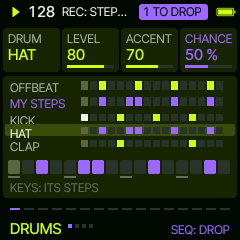
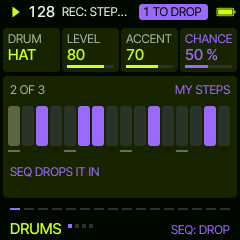
DRUMS: one drum at a time, large; OCT- or OCT+ lit while the keys' octave is moved
Claude-Session: https://claude.ai/code/session_01VgesZgNNDFiPGvKyDTZVUK

Changed region(s): [[0.0, 0.3208, 0.9917, 0.8167]]

diff --git a/firmware/src/sa_ui.c b/firmware/src/sa_ui.c
@@ -951,46 +951,39 @@ static void sv_panel_synth_home(sa_ui *u)
     sv_label(10, 88, "FX: SOUND AND MORE   REC: STEPS", T_DIM);
 }
 
-/* DRUMS: the drums, a row each (the one KNOB 1 picked lit); the one picked, large: its 16 steps */
+/* DRUMS: the drum KNOB 1 picked, large: which of how many, its pattern, its 16 steps (what plays, or what SEQ drops) */
 static void sv_panel_drums(sa_ui *u)
 {
     sa_groove *g = u->g;
-    int rows[SA_LAYERS], n = sv_drum_rows(u, rows), total = sv_drow_count(u), now = sv_now(g);
-    int first = u->drow > 2 ? u->drow - 2 : 0;      /* three rows in view, the one picked among them */
-    for (int i = first; i < total && i < first + 3; ++i) {
-        int32_t y = 36 + (i - first) * 13;
-        bool sel = i == u->drow;
-        uint16_t bg = sel ? ux_mix(T_SURF, T_THEME, 18) : T_SURF;
-        if (sel) cv_rrect(5, y - 1, 230, 12, 2, bg, T_SURF);
-        if (i >= n) {
-            cv_text_on(10, y + 1, &AF_S, "+ ADD A DRUM", sel ? T_TEXT : T_DIM, bg);
-            continue;
-        }
-        int l = rows[i];
-        const sa_code *e = &g->ed[l];
-        bool pend = sa_layer_pending(g, l), mute = g->s.live[l].mute, gone = e->type == SA_T_NONE;
-        bool off = e->pat == SA_PAT_OFF && !e->own;
-        cv_free_text(10, y + 1, &AF_S, sv_layer_name(u, l), mute || gone || off ? T_DIM : sel ? T_TEXT : T_MID, bg, 66);
-        sv_strip(80, y + 2, 152, 7, gone || off ? 0 : sv_ed_bits(u, l), now, pend ? T_ACCENT : T_THEME, mute || gone);
-        if (mute) cv_rect(80, y + 5, 152, 2, T_ACCENT);
-    }
-    int l = u->layer;
+    int rows[SA_LAYERS], n = sv_drum_rows(u, rows), now = sv_now(g), l = u->layer;
+    char t[24], a[8];
     if (l < 0) {
-        cv_text_on(10, 96, &AF_S, "ALGORITHM: WHICH DRUM", T_MID, T_SURF);
+        cv_text_on(10, 14, &AF_M, "+ ADD A DRUM", T_THEME, T_SURF);
+        sv_label(10, 50, "ALGORITHM: WHICH DRUM", T_MID);
+        sv_label(10, 66, "SEQ DROPS IT IN", T_DIM);
         return;
     }
     const sa_code *e = &g->ed[l];
-    bool pend = sa_layer_pending(g, l);
-    uint16_t bits = e->type == SA_T_NONE ? 0 : sv_ed_bits(u, l);
+    bool pend = sa_layer_pending(g, l), mute = g->s.live[l].mute;
+    sv_fmt_int(t, u->drow + 1);
+    sv_cat(t, " OF ", sizeof t);
+    sv_fmt_int(a, n);
+    sv_cat(t, a, sizeof t);
+    sv_label(10, 6, t, T_MID);
+    if (e->type == SA_T_NONE) sv_cpy(t, "REMOVED", sizeof t);
+    else sa_pat_label(e, t, sizeof t);
+    cv_text_r(230, 6, &AF_S, mute ? "MUTED" : t, mute || pend ? T_ACCENT : T_THEME, T_SURF);
+    uint16_t bits = e->type == SA_T_NONE || (e->pat == SA_PAT_OFF && !e->own) ? 0 : sv_ed_bits(u, l);
     for (int k = 0; k < 16; ++k) {
         int32_t x = 8 + k * 14;
         bool on = (bits >> k) & 1u;
-        uint16_t c = on ? (pend ? T_ACCENT : T_THEME) : sv_well();
+        uint16_t c = on ? (mute ? T_DIM : pend ? T_ACCENT : T_THEME) : sv_well();
         if (k == now) c = on ? T_TEXT : ux_mix(T_SURF, T_TEXT, 30);
-        cv_rrect(x, 84, 12, 14, 2, c, T_SURF);
-        if (k % 4 == 0) cv_rect(x, 100, 12, 2, T_DIM);
+        cv_rrect(x, 30, 12, 40, 3, c, T_SURF);
+        if (k % 4 == 0) cv_rect(x, 74, 12, 2, T_DIM);
     }
-    sv_label(10, 104, u->rec ? "KEYS: ITS STEPS" : "REC: ITS STEPS ON THE KEYS", T_DIM);
+    sv_label(10, 88, pend ? "SEQ DROPS IT IN" : u->rec ? "KEYS: ITS STEPS" : "REC: ITS STEPS ON THE KEYS",
+             pend ? T_ACCENT : T_DIM);
 }
 
 static void sv_panel_layer(sa_ui *u)
@@ -1002,7 +995,6 @@ static void sv_panel_layer(sa_ui *u)
     }
     int pg = sv_page_now(u);
     if (u->view == SV_V_DRUMS && pg == SVP_HOME) {
-        sv_layer_top(u, u->layer);
         sv_panel_drums(u);
         return;
     }

diff --git a/firmware/src/sa_fw.c b/firmware/src/sa_fw.c
@@ -490,6 +490,8 @@ static void sa_leds(void)
     bool pend = sa_pending(&sa_g) > 0;
     led_put(nl, panel.btn[B_SEQ], pend && (!sa_g.drop_armed || (fm1_ms / 125u) % 2u));   /* SEQ: what waits */
     led_put(nl, panel.btn[B_REC], sa_u.rec || (sa_u.page == SV_PG_SETS && (fm1_ms / 500u) % 2u));
+    led_put(nl, panel.btn[B_OCTDN], sa_u.oct < 0);                  /* the keys' octave moved down, or up */
+    led_put(nl, panel.btn[B_OCTUP], sa_u.oct > 0);
     uint32_t efull = 0, edim = 0;
     bool editing = sv_key_leds(&sa_u, &efull, &edim);   /* DRUMS, STEPS: the keys show what they edit */
     for (k = 0; k < NB; k++)

diff --git a/docs/MANUAL.md b/docs/MANUAL.md
@@ -22,7 +22,7 @@ into one of eight sets (SAVE, below).
 | SCL | the key and the chords, again: back |
 | SAVE | the sets, again: back |
 | PLAY | start, stop |
-| OCT- OCT+ | the keys' octave |
+| OCT- OCT+ | the keys' octave (the one it moved to lit) |
 
 The footer shows the layer, a dot for each of its pages (the one open lit) and what the next press does.
 
@@ -90,7 +90,8 @@ pattern the layer's own (MY STEPS); like a pattern, the steps wait for SEQ, and 
 <img src="screens/kit.png" alt="KIT" width="200">
 </p>
 
-Every drum is a row; the one picked shows its 16 steps under the rows. The home page: **DRUM** (which drum; the last
+DRUMS shows the drum KNOB 1 picked, large: which of how many, its pattern and its 16 steps (HOME shows them all). The
+home page: **DRUM** (which drum; the last
 one, **+ ADD**, adds one), **LEVEL**, **ACCENT** (how hard the accented steps hit against the rest; 50: as written)
 and **CHANCE** (how likely each hit plays: 100 % always, lower and it drops out at random). ALGORITHM turns the drum's
 pattern: OFF, the patterns, and left of OFF, REMOVE. On + ADD it picks the drum (KICK SNARE CLAP HAT OPEN HAT RIDE
